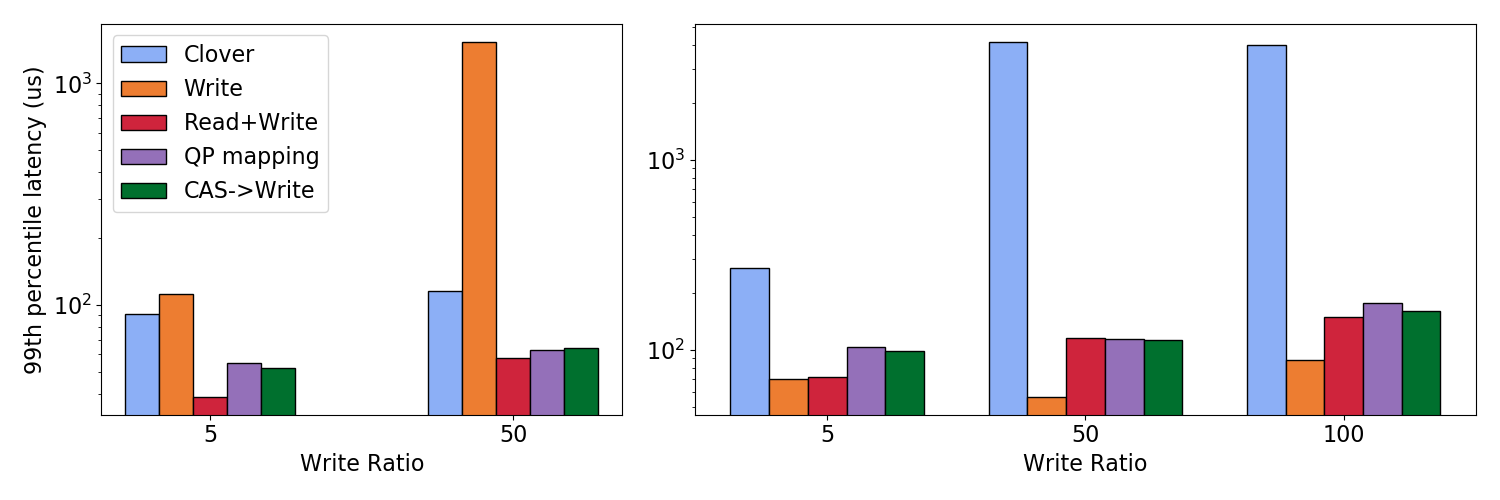
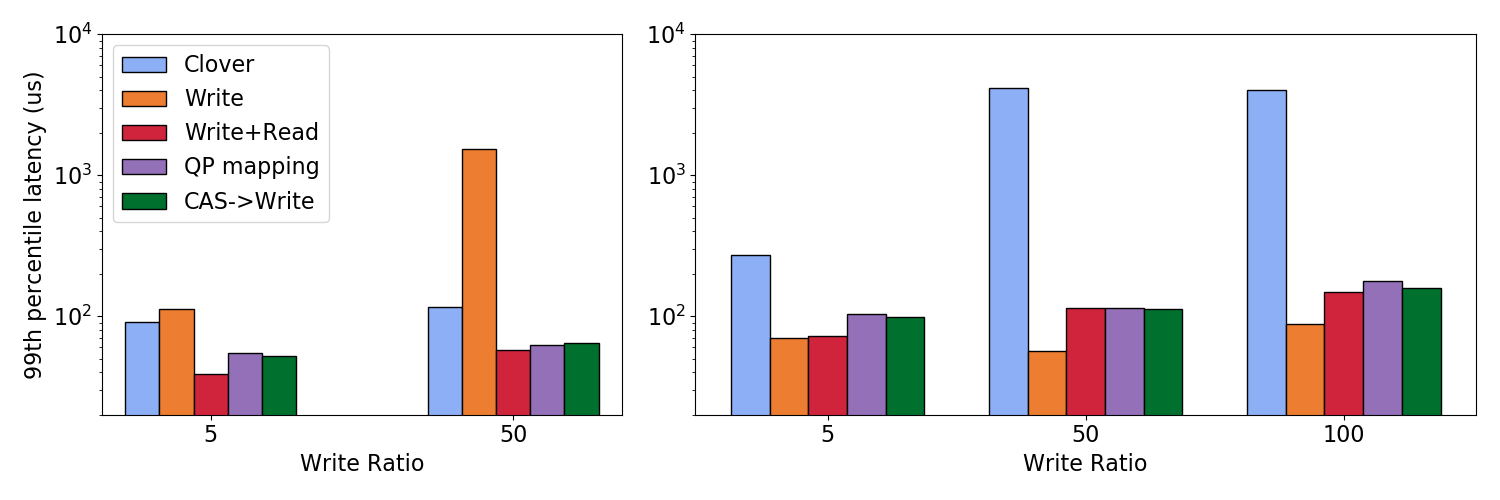
added 99th plot

diff --git a/papers/OSDI22/fig/99th_latency.py b/papers/OSDI22/fig/99th_latency.py
@@ -49,7 +49,7 @@ div=1
 
 rects0 = ax1.bar(x - (2*width), clover, width, label='Clover',color=default_clover_color,edgecolor='k')
 rects1 = ax1.bar(x - width, write, width, label='Write',color=write_steering_color,edgecolor='k')
-rects2 = ax1.bar(x, read_write, width, label='Read+Write',color=read_write_steering_color,edgecolor='k')
+rects2 = ax1.bar(x, read_write, width, label='Write+Read',color=read_write_steering_color,edgecolor='k')
 rects3 = ax1.bar(x + width, qp, width, label='QP mapping',color=qp_mapping_color,edgecolor='k')
 rects4 = ax1.bar(x + (2*width), cns, width, label='CAS->Write',color=cns_color,edgecolor='k')
 
@@ -59,6 +59,7 @@ ax1.set_ylabel('99th percentile latency (us)')
 #ax1.set_title('Read Latencies')
 ax1.set_xticks(x)
 ax1.set_yscale('log')
+ax1.set_ylim(20,10000)
 ax1.set_xticklabels(labels)
 ax1.set_xlabel("Write Ratio")
 ax1.legend()
@@ -85,7 +86,7 @@ div=1
 
 rects0 = ax2.bar(x - (2*width), clover, width, label='Clover',color=default_clover_color,edgecolor='k')
 rects1 = ax2.bar(x - width, write, width, label='Write',color=write_steering_color,edgecolor='k')
-rects2 = ax2.bar(x, read_write, width, label='Read+Write',color=read_write_steering_color,edgecolor='k')
+rects2 = ax2.bar(x, read_write, width, label='Write+Read',color=read_write_steering_color,edgecolor='k')
 rects3 = ax2.bar(x + width, qp, width, label='QP mapping',color=qp_mapping_color,edgecolor='k')
 rects4 = ax2.bar(x + (2*width), cns, width, label='CAS->Write',color=cns_color,edgecolor='k')
 
@@ -94,6 +95,7 @@ rects4 = ax2.bar(x + (2*width), cns, width, label='CAS->Write',color=cns_color,e
 ax2.set_xticks(x)
 ax2.set_xticklabels(labels)
 ax2.set_yscale('log')
+ax2.set_ylim(20,10000)
 ax2.set_xlabel("Write Ratio")
 
 #//ax.bar_label(rects2, padding=3)
